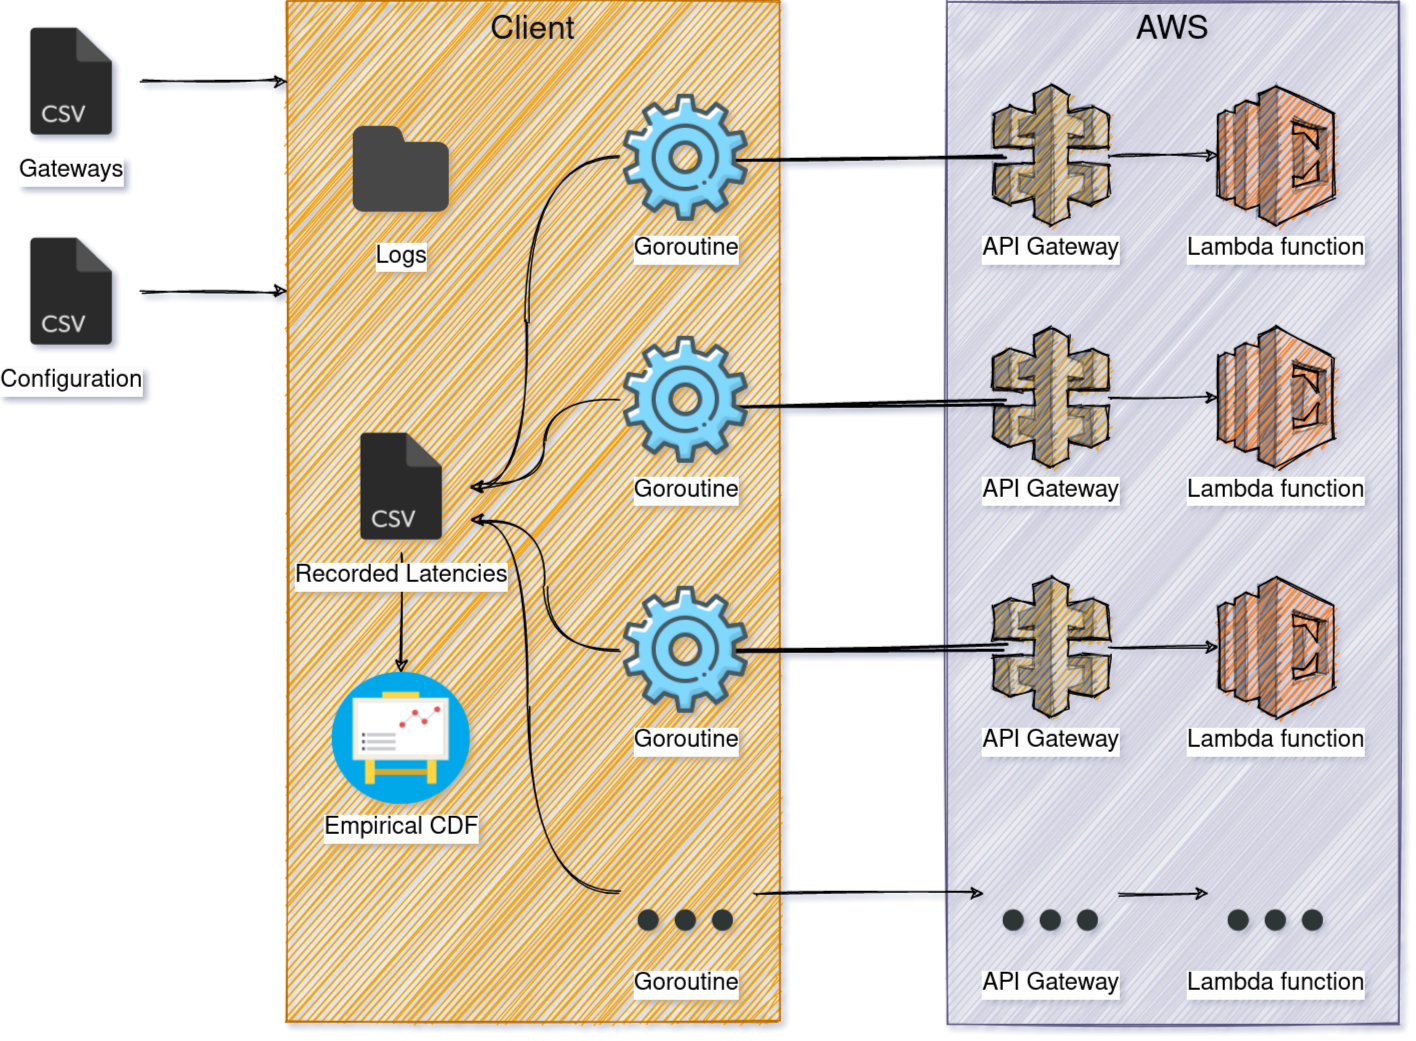
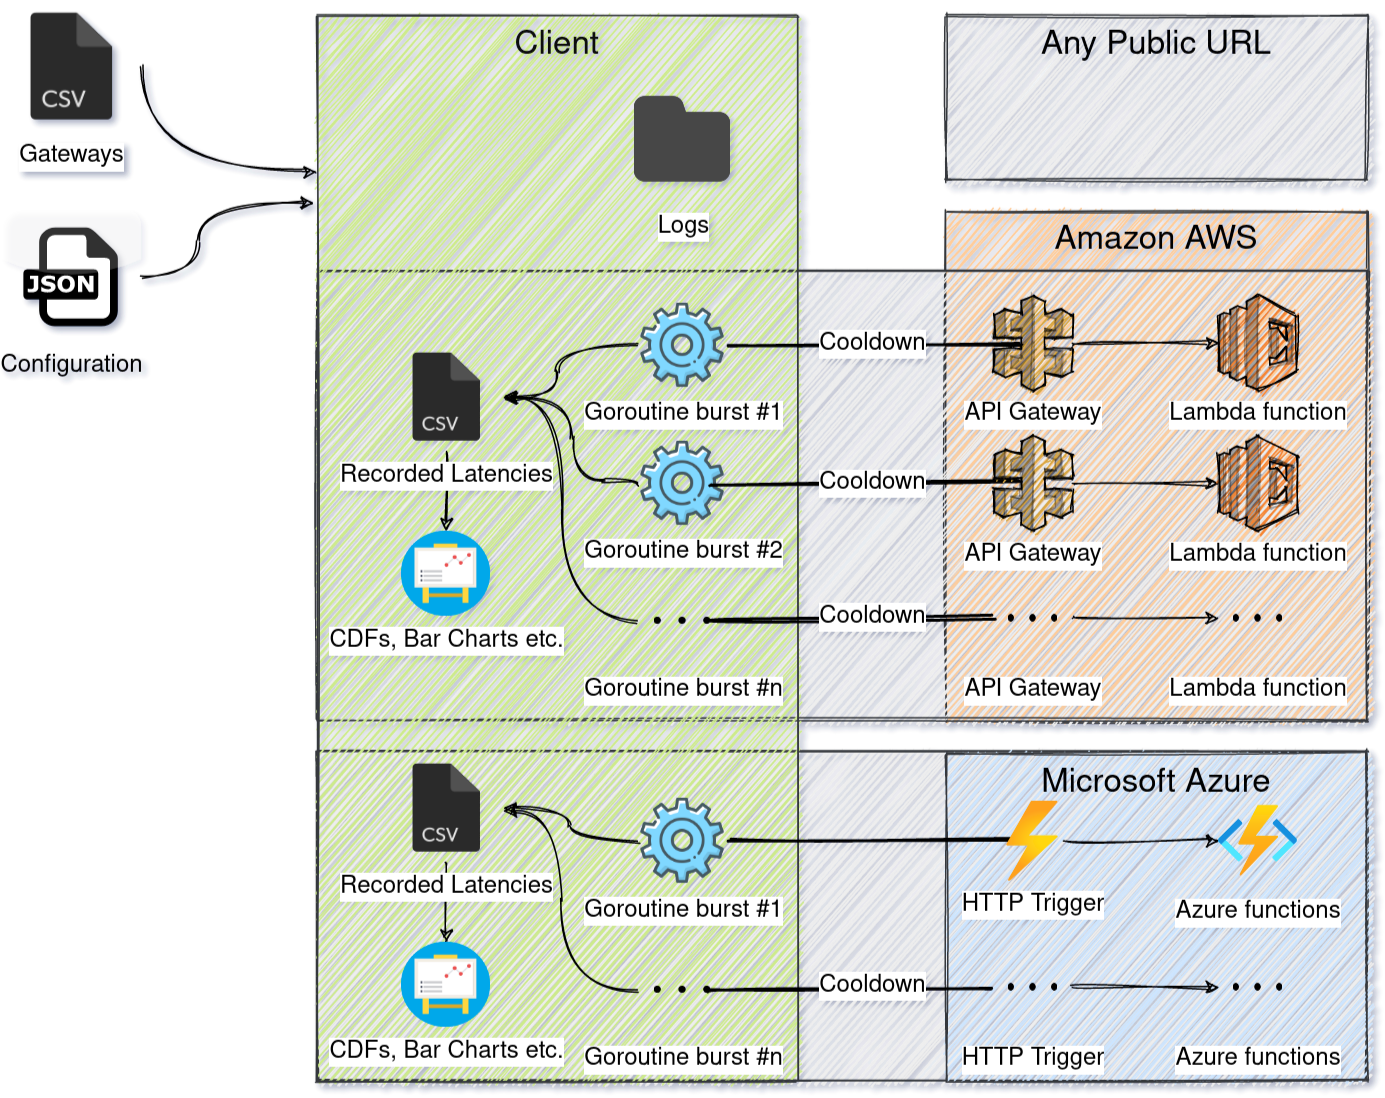
function incron increment is now deduced, function memory taken into account in config file

diff --git a/lambda-benchmarking/client/src/main.go b/lambda-benchmarking/client/src/main.go
@@ -11,6 +11,7 @@ import (
 	"os"
 	"os/signal"
 	"path/filepath"
+	"strconv"
 	"sync"
 	"syscall"
 	"time"
@@ -85,7 +86,7 @@ func readInstructions() configuration.Configuration {
 		log.Fatalf("Could not read gateways file: %s", err.Error())
 	}
 	gatewaysDF := dataframe.ReadCSV(gatewaysFile)
-	gateways := gatewaysDF.Col("Gateway ID").Records()
+	memoryToGatewayIDs, memoryToLastAssignedIndex := mapMemoryToGateways(gatewaysDF)
 
 	log.Debugf("Reading config file for this run from `%s`", *configPathFlag)
 	configFile, err := os.Open(*configPathFlag)
@@ -93,16 +94,24 @@ func readInstructions() configuration.Configuration {
 		log.Fatalf("Could not read config file: %s", err.Error())
 	}
 
-	experimentsGatewayIndex := 0
 	config := configuration.Extract(configFile)
-	for index, exp := range config.SubExperiments {
+	for index := range config.SubExperiments {
 		config.SubExperiments[index].ID = index
-		assignGatewaysToExperiment(gateways, experimentsGatewayIndex, exp.GatewaysNumber, gatewaysFile.Name(), &config.SubExperiments[index])
-		experimentsGatewayIndex += exp.GatewaysNumber
+		assignGatewaysToExperiment(memoryToGatewayIDs, memoryToLastAssignedIndex, &config.SubExperiments[index])
 
+		// Issue warning if sending too many requests in a single burst
+		const manyRequestsInBurstThreshold = 2000
+		for _, burstSize := range config.SubExperiments[index].BurstSizes {
+			if burstSize > manyRequestsInBurstThreshold {
+				log.Warnf("Experiment %d has a burst of size %d, NIC (Network Interface Controller) contention may occur.",
+					index, burstSize)
+			}
+		}
+
+		// Issue warning if generating too many files
+		const manyFilesWarningThreshold = 500
 		chosenVisualization := config.SubExperiments[index].Visualization
 		burstsNumber := config.SubExperiments[index].Bursts
-		const manyFilesWarningThreshold = 500
 		if burstsNumber >= manyFilesWarningThreshold && (chosenVisualization == "all" || chosenVisualization == "histogram") {
 			log.Warnf("Generating histograms for each burst, this will create a large number (%d) of new files.",
 				burstsNumber)
@@ -113,13 +122,44 @@ func readInstructions() configuration.Configuration {
 	return config
 }
 
-func assignGatewaysToExperiment(gateways []string, currExpGatewayIndex int, experimentGatewaysReq int,
-	gatewaysFileName string, experiment *configuration.SubExperiment) {
-	if currExpGatewayIndex+experimentGatewaysReq > len(gateways) {
-		log.Warnf("Not enough gateways were found in the given gateways file `%s`, found %d but trying to assign from %d to %d. Experiment `%s` will be assigned 0 gateways.",
-			gatewaysFileName, len(gateways), currExpGatewayIndex, currExpGatewayIndex+experimentGatewaysReq, experiment.Title)
+func mapMemoryToGateways(gatewaysDF dataframe.DataFrame) (map[int64][]string, map[int64]int) {
+	memoryToListOfGatewayIDs := make(map[int64][]string)
+	memoryToLastAssignedIndex := make(map[int64]int)
+	for idx, record := range gatewaysDF.Records() {
+		if idx == 0 {
+			continue
+		}
+
+		desiredMemory, err := strconv.ParseInt(record[1], 10, 64)
+		if err != nil {
+			log.Fatalf("Could not parse function memory %s in configuration file.", record[1])
+		}
+		memoryToLastAssignedIndex[desiredMemory] = 0
+		memoryToListOfGatewayIDs[desiredMemory] = append(memoryToListOfGatewayIDs[desiredMemory], record[0])
 	}
-	experiment.GatewayEndpoints = gateways[currExpGatewayIndex : currExpGatewayIndex+experimentGatewaysReq]
+	return memoryToListOfGatewayIDs, memoryToLastAssignedIndex
+}
+
+func assignGatewaysToExperiment(gateways map[int64][]string, memoryToLastAssignedIndex map[int64]int, experiment *configuration.SubExperiment) {
+	lastAssignedIndexExcl := memoryToLastAssignedIndex[experiment.FunctionMemoryMB]
+	newLastAssignedIndexExcl := lastAssignedIndexExcl + experiment.GatewaysNumber
+	nrGatewaysWithDesiredMemory := len(gateways[experiment.FunctionMemoryMB])
+
+	if newLastAssignedIndexExcl > nrGatewaysWithDesiredMemory {
+		remainingGatewaysToAssign := nrGatewaysWithDesiredMemory - lastAssignedIndexExcl
+		log.Errorf("Not enough remaining gateways were found in the given gateways file with requested memory %dMB, found %d but trying to assign from %d to %d. Experiment `%s` will be assigned %d gateways.",
+			experiment.FunctionMemoryMB, remainingGatewaysToAssign,
+			lastAssignedIndexExcl, newLastAssignedIndexExcl,
+			experiment.Title, remainingGatewaysToAssign)
+
+		if remainingGatewaysToAssign <= 0 {
+			log.Fatalf("Cannot assign %d gateways to an experiment.", remainingGatewaysToAssign)
+		}
+
+		newLastAssignedIndexExcl = nrGatewaysWithDesiredMemory
+	}
+	memoryToLastAssignedIndex[experiment.FunctionMemoryMB] = newLastAssignedIndexExcl
+	experiment.GatewayEndpoints = gateways[experiment.FunctionMemoryMB][lastAssignedIndexExcl:newLastAssignedIndexExcl]
 }
 
 // setupCtrlCHandler creates a 'listener' on a new goroutine which will notify the

diff --git a/lambda-benchmarking/client/src/experiment/configuration/config.go b/lambda-benchmarking/client/src/experiment/configuration/config.go
@@ -15,16 +15,18 @@ type Configuration struct {
 
 //SubExperiment is the schema for sub-experiment configurations.
 type SubExperiment struct {
-	Title                   string  `json:"Title"`
-	Bursts                  int     `json:"Bursts"`
-	BurstSizes              []int   `json:"BurstSizes"`
-	PayloadLengthBytes      int     `json:"PayloadLengthBytes"`
-	CooldownSeconds         float64 `json:"CooldownSeconds"`
-	FunctionIncrementLimits []int64 `json:"FunctionIncrementLimits"`
-	IATType                 string  `json:"IATType"`
-	Provider                string  `json:"Provider"`
-	GatewaysNumber          int     `json:"GatewaysNumber"`
-	Visualization           string  `json:"Visualization"`
+	Title                   string   `json:"Title"`
+	Bursts                  int      `json:"Bursts"`
+	BurstSizes              []int    `json:"BurstSizes"`
+	PayloadLengthBytes      int      `json:"PayloadLengthBytes"`
+	CooldownSeconds         float64  `json:"CooldownSeconds"`
+	FunctionIncrementLimits []int64  `json:"FunctionIncrementLimits"`
+	DesiredServiceTimes     []string `json:"DesiredServiceTimes"`
+	IATType                 string   `json:"IATType"`
+	Provider                string   `json:"Provider"`
+	GatewaysNumber          int      `json:"GatewaysNumber"`
+	Visualization           string   `json:"Visualization"`
+	FunctionMemoryMB        int64    `json:"FunctionMemoryMB"`
 	GatewayEndpoints        []string
 	ID                      int
 }
@@ -38,13 +40,23 @@ func Extract(configFile *os.File) Configuration {
 		log.Fatalf("Could not extract configuration from file: %s", err.Error())
 	}
 
+	standardIncrement := int64(1e10)
+	standardDurationMs := timeSession(standardIncrement).Milliseconds()
+	cachedServiceTimeIncrement = make(map[string]int64)
+	for subExperimentIndex := range parsedConfiguration.SubExperiments {
+		determineFunctionIncrementLimits(&parsedConfiguration.SubExperiments[subExperimentIndex],
+			standardIncrement, standardDurationMs)
+	}
+
 	setDefaults(parsedConfiguration.SubExperiments)
 	return parsedConfiguration
 }
 
-const defaultVisualization = "all-light"
+const defaultVisualization = "cdf"
 const defaultIATType = "stochastic"
 const defaultProvider = "aws"
+const defaultFunctionMemoryMB = 128
+const defaultGatewaysNumber = 1
 
 func setDefaults(parsedSubExps []SubExperiment) {
 	for index := range parsedSubExps {
@@ -56,6 +68,12 @@ func setDefaults(parsedSubExps []SubExperiment) {
 		}
 		if parsedSubExps[index].Provider == "" {
 			parsedSubExps[index].Provider = defaultProvider
+		}
+		if parsedSubExps[index].FunctionMemoryMB == 0 {
+			parsedSubExps[index].FunctionMemoryMB = defaultFunctionMemoryMB
+		}
+		if parsedSubExps[index].GatewaysNumber == 0 {
+			parsedSubExps[index].GatewaysNumber = defaultGatewaysNumber
 		}
 	}
 }

diff --git a/lambda-benchmarking/client/src/experiment/configuration/functionIncrementLimits.go b/lambda-benchmarking/client/src/experiment/configuration/functionIncrementLimits.go
@@ -1,0 +1,71 @@
+package configuration
+
+import (
+	"fmt"
+	log "github.com/sirupsen/logrus"
+	"math"
+	"math/big"
+	"strconv"
+	"strings"
+	"time"
+)
+
+var cachedServiceTimeIncrement map[string]int64
+
+func determineFunctionIncrementLimits(subExperiment *SubExperiment, standardIncrement int64, standardDurationMs int64) {
+	for _, serviceTime := range subExperiment.DesiredServiceTimes {
+		if cachedIncrement, ok := cachedServiceTimeIncrement[serviceTime]; ok {
+			log.Infof("Using cached increment %d for desired %v", cachedIncrement, serviceTime)
+			subExperiment.FunctionIncrementLimits = append(subExperiment.FunctionIncrementLimits, cachedIncrement)
+			continue
+		}
+
+		parsedDesiredDuration, err := time.ParseDuration(serviceTime)
+		if err != nil {
+			log.Fatalf("Could not parse desired function run duration %s from configuration file.", serviceTime)
+		}
+
+		desiredDurationMs := parsedDesiredDuration.Milliseconds()
+		log.Infof("Determining function increment for a duration of %dms...", desiredDurationMs)
+
+		ratio := big.NewRat(desiredDurationMs, standardDurationMs)
+		currentIncrement := big.NewRat(standardIncrement, 1)
+		currentIncrement.Mul(currentIncrement, ratio)
+
+		suggestedIncrementFloat, _ := currentIncrement.Float64()
+		suggestedIncrement := int64(suggestedIncrementFloat)
+		suggestedDurationMs := timeSession(suggestedIncrement).Milliseconds()
+		if !almostEqual(suggestedDurationMs, desiredDurationMs, float64(desiredDurationMs)*0.02) {
+			log.Warnf("Suggested increment %d (duration %dms) is not within 2%% of desired duration %dms",
+				suggestedIncrement, suggestedDurationMs, desiredDurationMs)
+
+			log.Print("Please enter a better increment (leave empty for unchanged): ")
+			var response string
+			_, err := fmt.Scanln(&response)
+			if err != nil && strings.Compare(err.Error(), "unexpected newline") != 0 {
+				log.Fatalf("Could not read response: %s.", err.Error())
+			} else if err == nil {
+				parsedManualIncrement, err := strconv.ParseInt(response, 10, 64)
+				if err != nil {
+					log.Fatalf("Could not parse integer %s: %s.", response, err.Error())
+				}
+				suggestedIncrement = parsedManualIncrement
+			}
+		}
+
+		log.Infof("Using increment %d (timed ~%dms) for desired %dms", suggestedIncrement, suggestedDurationMs, desiredDurationMs)
+		cachedServiceTimeIncrement[serviceTime] = suggestedIncrement
+		subExperiment.FunctionIncrementLimits = append(subExperiment.FunctionIncrementLimits, suggestedIncrement)
+	}
+}
+
+func timeSession(increment int64) time.Duration {
+	start := time.Now()
+	for i := int64(0); i < increment; i++ {
+	}
+	return time.Since(start)
+}
+
+func almostEqual(a, b int64, float64EqualityThreshold float64) bool {
+	return math.Abs(float64(a-b)) <= float64EqualityThreshold
+}

diff --git a/lambda-benchmarking/client/src/experiment/benchmarking/profiler.go b/lambda-benchmarking/client/src/experiment/benchmarking/profiler.go
@@ -9,10 +9,9 @@ import (
 //RunProfiler will trigger bursts sequentially to each available gateway for a given experiment, then sleep for the
 //selected interval and start the process all over again.
 func RunProfiler(config configuration.SubExperiment, deltas []time.Duration, safeExperimentWriter *SafeWriter) {
-	log.Infof("SubExperiment %d: running profiler, scheduling %d bursts with freq ~%vs and %d gateways (bursts/gateways*freq=%v), estimated to complete on %v",
+	log.Infof("SubExperiment %d: running profiler, scheduling %d bursts with freq ~%vs and %d gateways (bursts/gateways*freq=%v)",
 		config.ID, config.Bursts, config.CooldownSeconds, len(config.GatewayEndpoints),
-		float64(config.Bursts)/float64(len(config.GatewayEndpoints))*config.CooldownSeconds,
-		time.Now().Add(estimateTotalDuration(config, deltas)).UTC().Format(time.RFC3339))
+		float64(config.Bursts)/float64(len(config.GatewayEndpoints))*config.CooldownSeconds)
 
 	burstID := 0
 	deltaIndex := 0
@@ -39,13 +38,4 @@ func min(x, y int) int {
 		return x
 	}
 	return y
-}
-
-func estimateTotalDuration(config configuration.SubExperiment, deltas []time.Duration) time.Duration {
-	log.Debugf("SubExperiment %d: estimating total duration with deltas %v", config.ID, deltas)
-	estimateTime := deltas[0]
-	for _, burstDelta := range deltas[1 : config.Bursts/len(config.GatewayEndpoints)] {
-		estimateTime += burstDelta
-	}
-	return estimateTime
 }

diff --git a/lambda-benchmarking/client/README.md b/lambda-benchmarking/client/README.md
@@ -17,22 +17,23 @@ latencies.
 Examples of valid experiment configurations you can find in folder `experiments`. Below is a table and a further discussion
  about the main elements of a configuration.
 
-| Title        | Bursts | BurstSizes | IATType       | PayloadLengthBytes      | FunctionIncrementLimits| CooldownSeconds     | GatewaysNumber | Provider        | Visualization
-|--------------|--------|------------|---------------|------------------------|------------------------|---------------------|----------------|-----------------|----------------
-| google       | 5000   | [1]        | deterministic | 0                      | [310000000]            | 1                   | 1              | www.google.com  | all
-| check1       | 50     | [100 10]   | stochastic    | 5                      | [650000000]            | 300                 | 150            |                 | cdf
-| check2       | 1000   | [5 1 3]    | step          | 5                      | [1350000000]           | 600                 | 100            | aws             | 
+| Title        | Bursts | BurstSizes | IATType       | PayloadLengthBytes     | DesiredServiceTimes    | CooldownSeconds     | GatewaysNumber | Provider        | Visualization | FunctionMemoryMB
+|--------------|--------|------------|---------------|------------------------|------------------------|---------------------|----------------|-----------------|---------------------------------
+| google       | 5000   | [1]        | deterministic | 0                      | ["50ms"]               | 1                   | 1              | www.google.com  | all           | 500
+| check1       | 50     | [100 10]   | stochastic    | 5                      | ["100ms"]              | 300                 | 150            |                 | cdf           | 1500
+| check2       | 1000   | [5 1 3]    | step          | 5                      | ["400ms"]              | 600                 | 100            | aws             |               | 300
 
 - `Title` Title of each experiment (used for naming folders).
 - `Bursts` Number of bursts which the latency profiler will trigger.
 - `BurstSizes` Number of requests to send in a burst.
 - `IATType` (default `stochastic`) Whether the inter-arrival time should be `deterministic`, a `step` function or `stochastic` (Gaussian).
-- `PayloadLengthBytes` Length of the payload generated by the lambda function.
-- `FunctionIncrementLimits` Increment limits (sequential) for the lambda function to busy spin on.
+- `PayloadLengthBytes` Length of the payload generated by the lambda function(s).
+- `DesiredServiceTimes` Service times for the lambda function(s) to busy spin on.
 - `CooldownSeconds` Frequency at which the latency profiler operates.
-- `GatewaysNumber` Integer representing how many gateways to use from the gateways file.
+- `GatewaysNumber` (default `1`) Integer representing how many gateways to use from the gateways file for this sub-experiment.
 - `Provider` (default `aws`) String representing the provider to be benchmarked (`aws`, misc. hostname).
 - `Visualization` (default `cdf`) The type of visualization to create (`histogram`, `cdf`, `bar`, `all`, `none`).
+- `FunctionMemoryMB` (default `128`) How much memory should the benchmarked function use.
 
 ## tmux tips
 - To create a new session `tmux new -s cloudlab`
